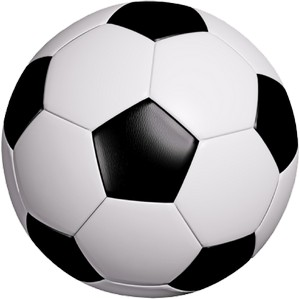
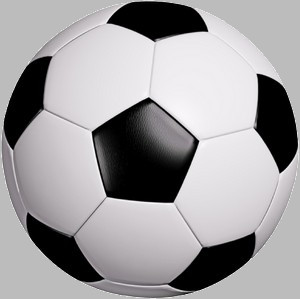
Design

Changed region(s): [[0.0, 0.0, 1.0, 1.0]]

diff --git a/client/src/pages/Home.js b/client/src/pages/Home.js
@@ -28,7 +28,7 @@ function Home() {
                      <div onClick={() => {navigate("/Maps")}}>
                         <img src={images.fussball} alt="Fußball" className="photo"/>
                     
-                        <Carousel.Caption><h6>NR 2 Soccer</h6></Carousel.Caption>
+                        <Carousel.Caption><h6>NR 2 Fußball</h6></Carousel.Caption>
                     </div>
                 </Carousel.Item>
 
@@ -36,7 +36,7 @@ function Home() {
                     <div>
                         <img src={images.volleyball} alt="Volleyball" className="photo"/>
                       
-                        <Carousel.Caption><h6>NR 3Volleyball</h6></Carousel.Caption>
+                        <Carousel.Caption><h6>NR 3 Volleyball</h6></Carousel.Caption>
                     </div>
                 </Carousel.Item>
                 <Carousel.Item>

diff --git a/client/src/App.css b/client/src/App.css
@@ -1,4 +1,8 @@
 body {
-    background-color: #121212;
-    color: lightgray;
+    background-color: #bcbcbc;
+    color: black;
+}
+
+#carousel-caption{
+    color: red;
 }

diff --git a/client/src/pages/css/Home.css b/client/src/pages/css/Home.css
@@ -2,3 +2,7 @@
     height: 400px;
     width: 400px;
   }
+  .carousel-caption{
+    
+    color: black;
+}
